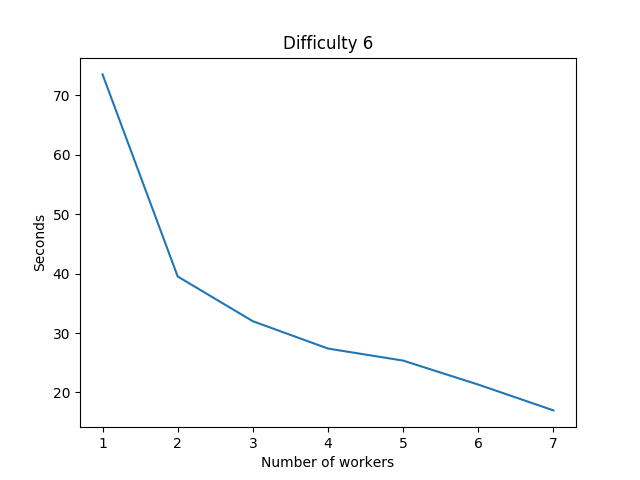
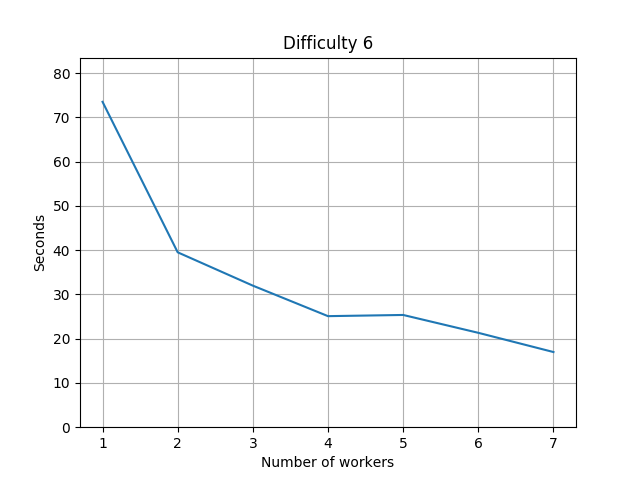
Plot Cloud Performance difficulty 6 and 7

diff --git a/out/plotter.py b/out/plotter.py
@@ -26,6 +26,9 @@ def cloud_finder_performance(difficulty):
   plt.xlabel('Number of workers')
   plt.ylabel('Seconds')
   plt.title(f"Difficulty {difficulty}")
+  axes = plt.gca()
+  axes.set_ylim([0, mean_time_by_n_workers['seconds'].max()])
+  plt.grid()
   plt.savefig(f"out/perf-cloud-diff-{difficulty}.png")
 
 if __name__ == "__main__":
